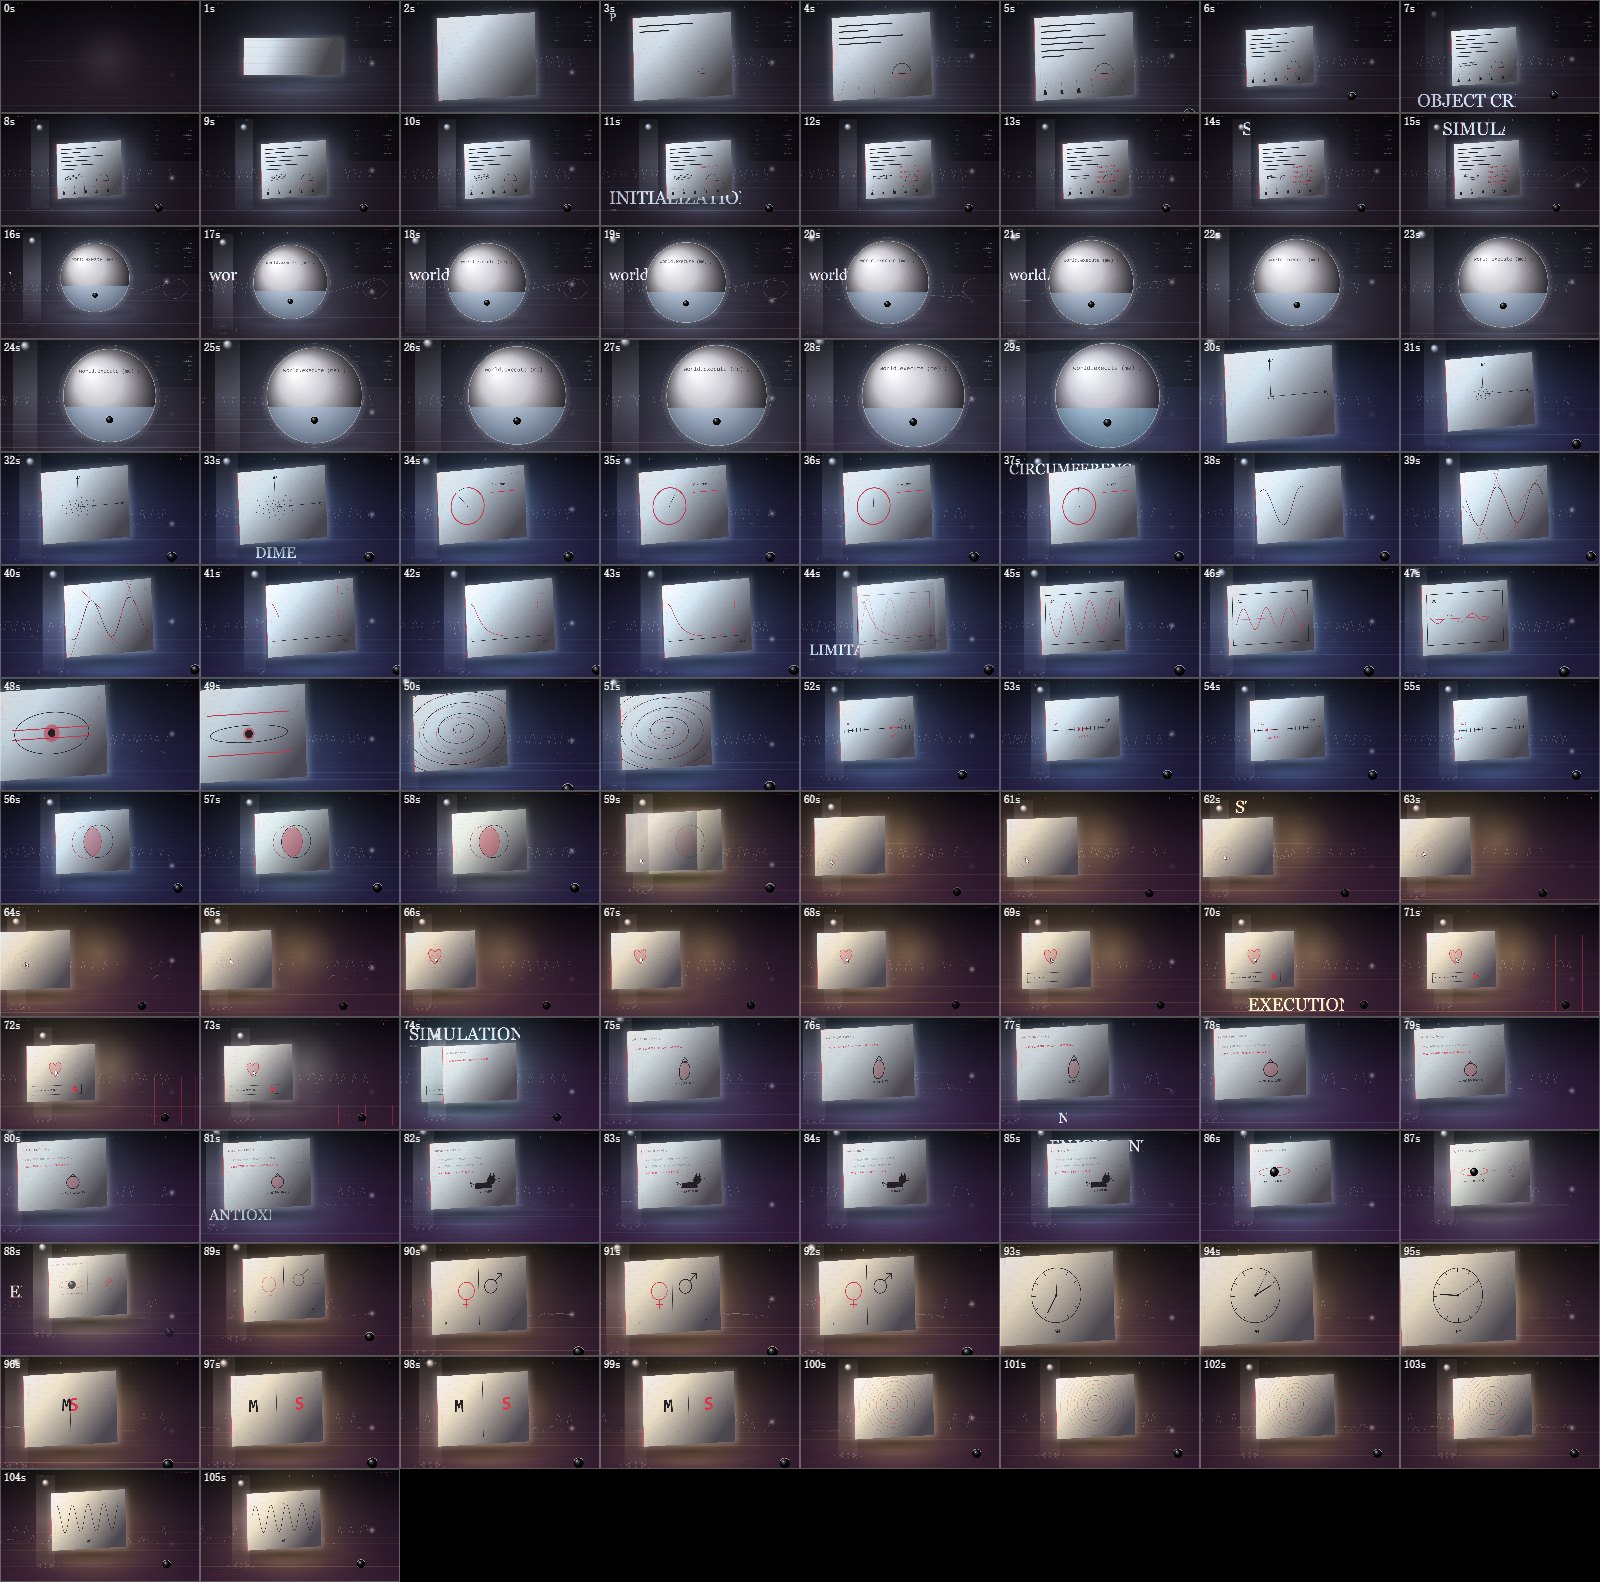
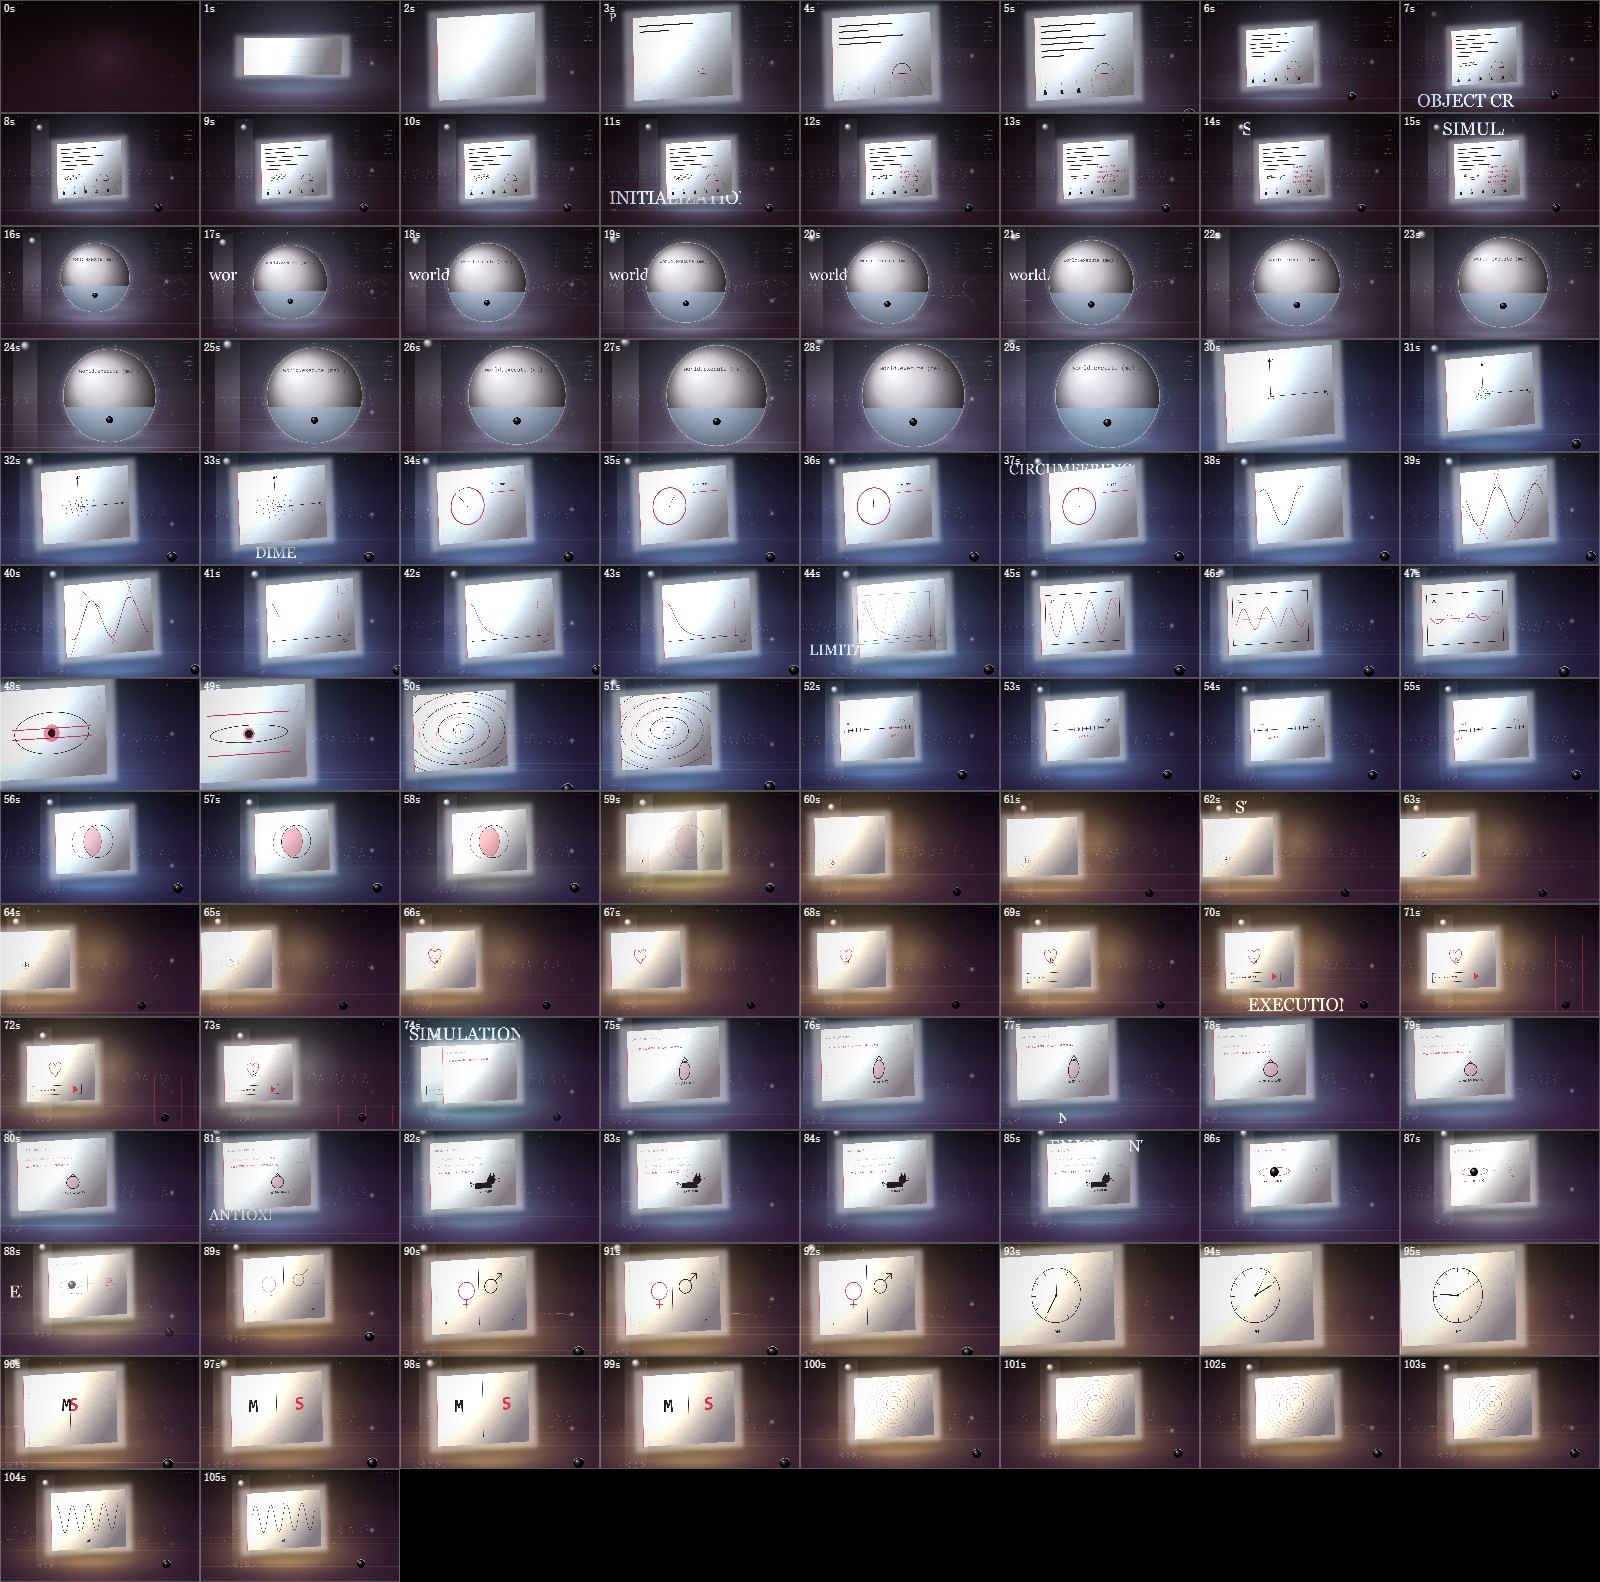
Make the sheet emit light, which is what the film has been claiming all along
Checked a frame at print size for the first time in a while, and the premise was lying: the page
was a grey board. The brightest stop was the paper colour pulled only 20% toward white, the far
stop was 74% toward the room, and the bloom sat at 0.15 alpha - so the sheet that the whole art
direction calls the only light in the room was not emitting anything, and every earlier pass at
lighting and perspective had just been dressing a slab of MDF.

The page is now an emitter rather than an illuminated card: the near corner is allowed to clip, a
lighter hot-spot sits under the ink so the strokes read as silhouette against a source instead of
line-art on a whiteboard, the cast bloom roughly doubles and spreads wider, the beam gains a fifth
more power, and the pool the sheet throws on the floor goes from 0.16 to 0.40 so the emission is
proved by something other than the sheet itself.

The measured floor of the picture rises with it: darkest frame per act goes verse 79 -> 101 and
83 -> 107, chorus 74 -> 94 and 74 -> 97, execution 73 -> 90, reveal 60 -> 76, interlude 61 -> 75,
and minimum saturation rises in every act too (boot 39 -> 46, execution 69 -> 69, outro 89) - the
sections keep their hue now that they are carrying light rather than being lit grey.

Rescan of 25,429 frames: 0 unattributed flashes, 28 spikes = 14 dissolve + 14 hard-cut, flags 67.
Evidence: analysis/frame-emitting.jpg (56.9 s at 2400x1350) and frame-emit-four.jpg (36 / 56.9 /
152 / 191 s).

diff --git a/mv/scenes.js b/mv/scenes.js
@@ -301,7 +301,7 @@ function room(g, col, F, t, L, o) {
   const warm = col.glow;
   g.save(); g.globalCompositeOperation = 'lighter';
   const beam = g.createRadialGradient(cx, cy, Math.min(L.w, L.h) * 0.14, cx, cy, reach);
-  const power = 0.1 + col.lum * 0.16 + F[8] * 0.07;
+  const power = 0.17 + col.lum * 0.24 + F[8] * 0.09;
   beam.addColorStop(0, rgba(warm, power));
   beam.addColorStop(0.42, rgba(warm, power * 0.28));
   beam.addColorStop(1, 'rgba(0,0,0,0)');
@@ -313,13 +313,13 @@ function room(g, col, F, t, L, o) {
      standing in that room rather than a card in front of a backdrop. */
   const base = Math.min(DH - 6, L.y + L.h);
   g.save(); g.globalCompositeOperation = 'lighter';
-  const pool = g.createRadialGradient(cx, base, 0, cx, base, L.w * 1.1);
-  pool.addColorStop(0, rgba(warm, 0.16 + col.lum * 0.12));
-  pool.addColorStop(0.45, rgba(warm, 0.05));
+  const pool = g.createRadialGradient(cx, base, 0, cx, base, L.w * 1.25);
+  pool.addColorStop(0, rgba(warm, 0.4 + col.lum * 0.22));
+  pool.addColorStop(0.45, rgba(warm, 0.13));
   pool.addColorStop(1, 'rgba(0,0,0,0)');
   g.fillStyle = pool;
   g.save(); g.translate(cx, base); g.scale(1, 0.26); g.translate(-cx, -base);
-  g.fillRect(cx - L.w * 1.1, base - L.w * 1.1, L.w * 2.2, L.w * 2.2); g.restore();
+  g.fillRect(cx - L.w * 1.25, base - L.w * 1.25, L.w * 2.5, L.w * 2.5); g.restore();
   g.restore();
   g.save();
   const sh = g.createRadialGradient(cx, base, 0, cx, base, L.w * 0.62);
@@ -389,16 +389,26 @@ function page(g, col, L, o) {
   g.scale(0.76, 0.84); g.translate(-mcx, -mcy);
   /* the cast bloom: a blurred copy of the sheet lying behind it */
   g.save(); g.filter = `blur(${o.blur === undefined ? 26 : o.blur}px)`;
-  g.fillStyle = rgba(col.page, 0.15 + col.lum * 0.11);
-  g.fillRect(L.x - L.w * 0.03, L.y - L.h * 0.03, L.w * 1.06, L.h * 1.06);
+  g.fillStyle = rgba(col.page, 0.34 + col.lum * 0.2);
+  g.fillRect(L.x - L.w * 0.09, L.y - L.h * 0.09, L.w * 1.18, L.h * 1.18);
   g.restore();
   const pg = g.createLinearGradient(L.x, L.y, L.x + L.w * 0.78, L.y + L.h);
-  /* the sheet used to be pulled 35% toward white at the top, which washed the section's hue out
-     — the contact sheet showed six "different" plates reading as one pale wash */
-  pg.addColorStop(0, tint(col.page, '#ffffff', 0.2));
-  pg.addColorStop(0.34, tint(col.page, col.glow, 0.26));
-  pg.addColorStop(1, tint(col.page, col.room0, 0.74));
+  /* The sheet has to be an EMITTER, not a lit card. Every earlier pass over-corrected toward
+     "don't blow it out" and ended with grey MDF in a dark room — which silently cancelled the one
+     premise the whole film rests on. The near corner is allowed to clip; the ink then reads as
+     silhouette against a light source rather than as drawing on a whiteboard. */
+  pg.addColorStop(0, tint(col.page, '#ffffff', 0.66));
+  pg.addColorStop(0.22, tint(col.page, '#ffffff', 0.3));
+  pg.addColorStop(0.55, tint(col.page, col.glow, 0.24));
+  pg.addColorStop(1, tint(col.page, col.room0, 0.52));
   g.fillStyle = pg; g.fillRect(L.x, L.y, L.w, L.h);
+  g.save(); g.globalCompositeOperation = 'lighter';
+  const hot = g.createRadialGradient(L.x + L.w * 0.2, L.y + L.h * 0.18, 0,
+                                     L.x + L.w * 0.2, L.y + L.h * 0.18, L.w * 0.85);
+  hot.addColorStop(0, rgba(col.page, 0.3 + col.lum * 0.18));
+  hot.addColorStop(1, 'rgba(0,0,0,0)');
+  g.fillStyle = hot; g.fillRect(L.x, L.y, L.w, L.h);
+  g.restore();
   /* the sheet is ruled. Since the board got smaller, shots whose diagram is two letters and a
      line showed the paper as a blank grey card; a faint rule says "this is a page" without
      adding anything that competes with the ink drawn on it */
